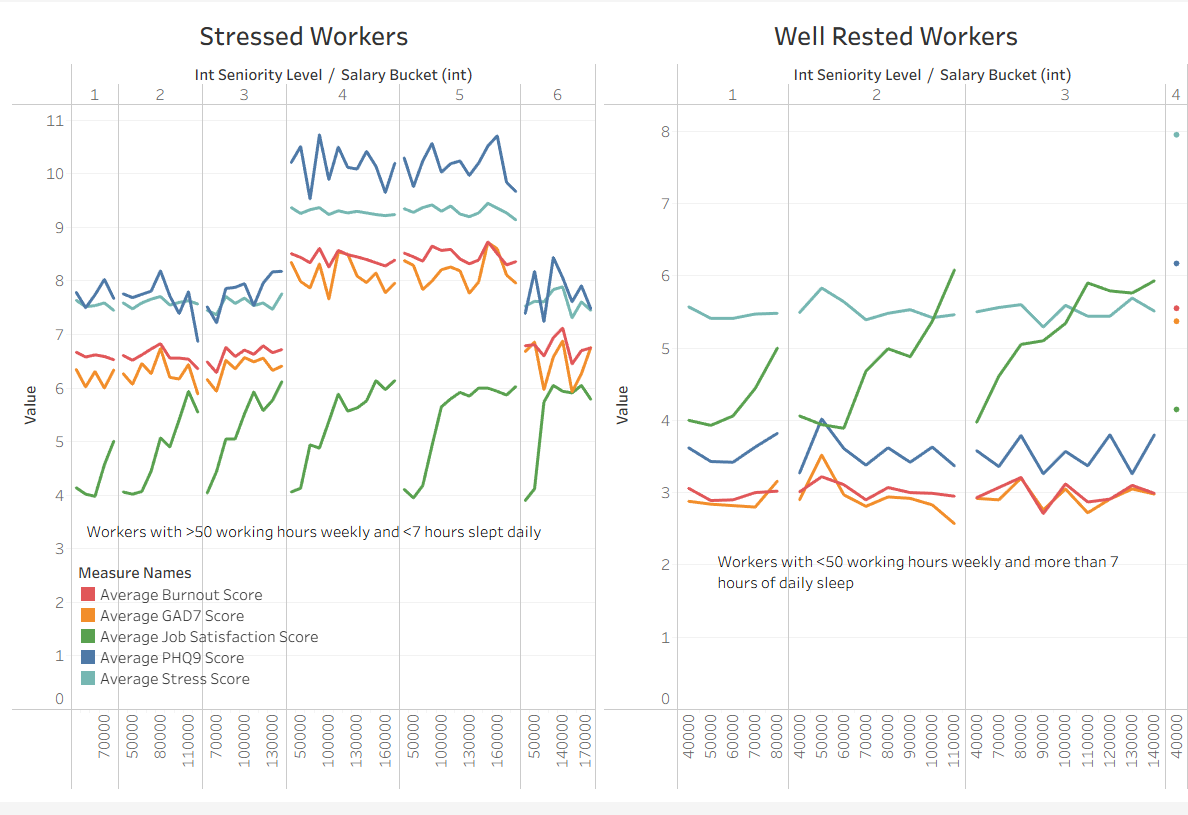
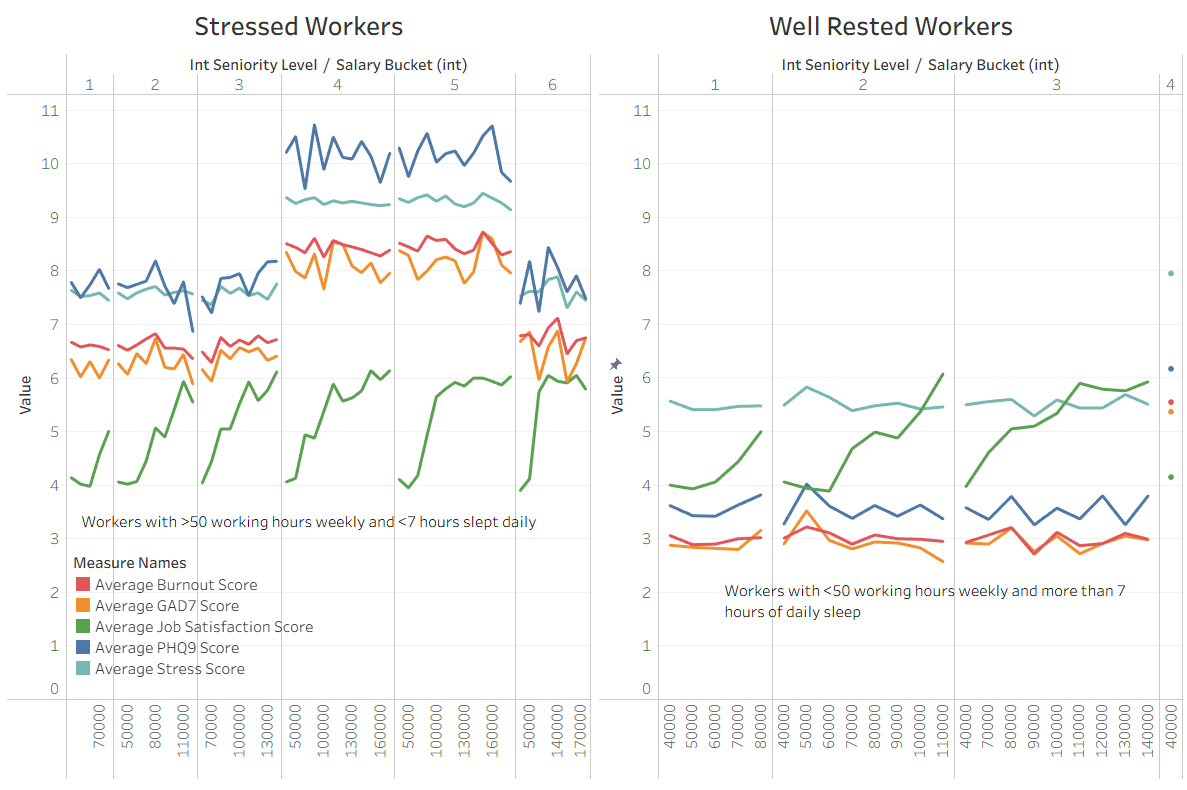
docs: finish third question explanation and insights

diff --git a/README.md b/README.md
@@ -12,6 +12,8 @@
 
     Interestingly, these psychological distress indicator scores stayed high regardless of salary. Conversely, employees with a seniority level of 1-3 have relatively stable overall mental health. This indicates that employees at this level are more usually well-rested than their senior counterparts.
 
+    Another interesting insight I found in this graph, is that job satisfaction does not seem to be influenced by psychological distress scores, it still plateaus at $110k whether or not the distress scores were high or not.
+
     ![Image of the diagram supporting the previous statements](images/first-hypothesis-summary.png)
 
     If you would want to see further proof, check the methodology section below in this README.
@@ -24,9 +26,15 @@
 
     ![Image showing no correlation between company/team size and burnout metrics](images/no-correlation-between-company-size-and-burnout-metrics.png)
 
-3. Does work location (remote, hybrid, on-site) correlate with their job satisfaction, and if so might there be any factors to explain why some work locations might be less fulfilling than others?
+3. Does the impact of work location on stress, burnout and job satisfaction vary significantly when accounting for weekly work hours, daily sleep duration, or the seniority level, and if so why?
 
-    Hypothesis: People working remotely will have better job satisfaction scores, as it allows for a more flexible lifestyle than other work locations.
+    Hypothesis: Yes, as hyrbid, and especially workers tend to have more flexible lifestyles, and that typically means they are more likely to take care of themselves, meaning they will have lower psychological distress scores than ones working on-site.
+
+    Status: False, there is no correlation between work location and stress, burnout nor job satisfaction regardless of weekly work hours, daily sleep duration and seniority level. The main cause of psychological distress is still considered to be low quality sleep and high work hours.
+
+    However, the job satisfaction scores for employees with high seniority are still slightly higher than those in the normal group. This further proves the insight in question one, where while higher salaries do correlate with higher job satisfaction until a certain point, they do not help with the increasing psychological distress scores, as it climbs.
+
+    ![Work location analysis summary](images/work-location-analysis-summary.png)
 
 4. Are there any geographical regions or countries that have a higher correlation between the gap of employees having high clinical PHQ9 and/or GAD7 scores, and mental health support/therapy usage, and what factors might explain this disparity?
 
@@ -124,6 +132,24 @@ After I wrote that, I imported it into tableau to get a nice line-graph visualiz
 Turns out, there is zero correlation, which means the hypothesis is false and team size is not a valid indicator of burnout and work life balance.
 
 ![Image showing no correlation between company/team size and burnout metrics](images/no-correlation-between-company-size-and-burnout-metrics.png)
+
+### The Third Question
+
+Again, I wrote a SQL query to try and select the correct data and find insights related to the question.
+
+However, accounting for multiple variables at once in a single query was something I did not prepare for.
+
+I first thought of making three seperate queries, accounting for each variable. However, I realized that it would be hard to join those results later on, and consequently it would be hard to then make meaningful data insights.
+
+But then, I thought of using a `CASE` statement to group and aggregate the employees into four different brackets: 'High Seniority', 'High Hours', 'Sleep Deprived', and 'Normal'.
+
+I thought this was better than the first one, as it joins all the data together into one SQL query, and I can export the query's results into one unified .csv file for visualization in tabelau, rather than joining three other csv files.
+
+I then exported this data to tabelau, made it into four seperate bar charts (not line charts because ...), and grouped them by color to make them easily differentiable.
+
+![results of the tableau viz](images/work-location-analysis-summary.png)
+
+yeah so as you can see there no correlation, so this question is done.
 
 ## Technical Challenges
 